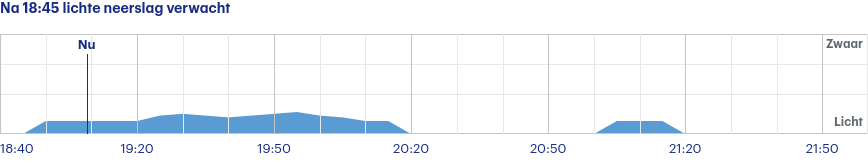
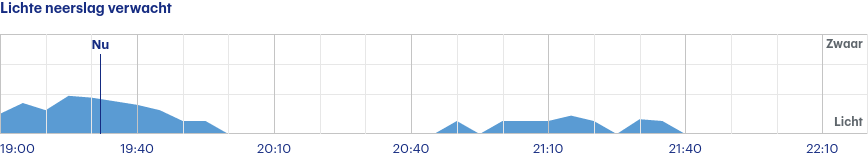
Latest scraping buienradar: Sat Jun 17 17:23:45 UTC 2023

diff --git a/scrapes/buienradar/buienradar-jette-3-uur.md b/scrapes/buienradar/buienradar-jette-3-uur.md
@@ -1,4 +1,4 @@
-Na 18:45 lichte neerslag verwacht
+Lichte neerslag verwacht
 
 ![](buienradar-jette-3-uur.png)
 
